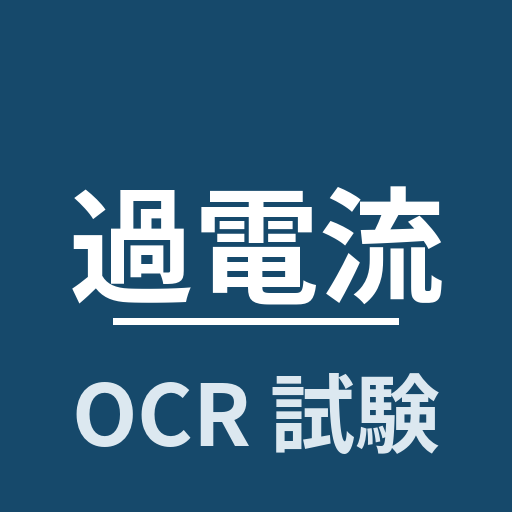
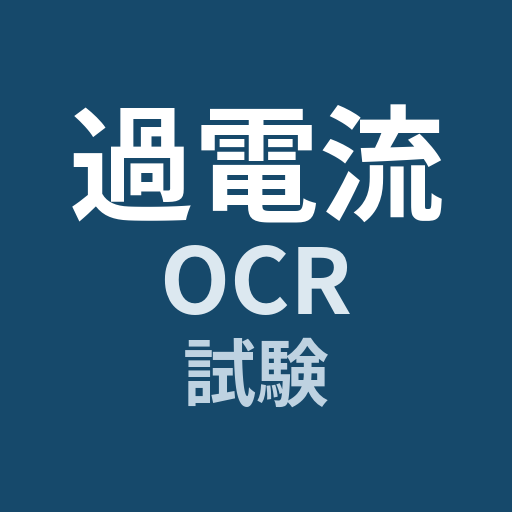
アイコンを3段(名前/略称/試験)にして中央へ
Claude-Session: https://claude.ai/code/session_01Gn88cHrahacSFTJfJTovtG

Changed region(s): [[0.125, 0.1875, 0.875, 0.9062]]

diff --git a/ocr.html b/ocr.html
@@ -6,8 +6,8 @@
 <title>過電流継電器試験成績表</title>
 <meta name="apple-mobile-web-app-title" content="過電流試験">
 <meta name="application-name" content="過電流試験">
-<link rel="apple-touch-icon" href="icons/ocr-180.png">
-<link rel="icon" type="image/png" sizes="512x512" href="icons/ocr-512.png">
+<link rel="apple-touch-icon" href="icons/ocr-180.png?v=2">
+<link rel="icon" type="image/png" sizes="512x512" href="icons/ocr-512.png?v=2">
 <link rel="preconnect" href="https://fonts.googleapis.com">
 <link rel="stylesheet" href="https://fonts.googleapis.com/css2?family=Noto+Sans+JP:wght@400;500;700&display=swap">
 <style>

diff --git a/uvr.html b/uvr.html
@@ -6,8 +6,8 @@
 <title>不足電圧継電器試験成績書</title>
 <meta name="apple-mobile-web-app-title" content="UVR試験">
 <meta name="application-name" content="UVR試験">
-<link rel="apple-touch-icon" href="icons/uvr-180.png">
-<link rel="icon" type="image/png" sizes="512x512" href="icons/uvr-512.png">
+<link rel="apple-touch-icon" href="icons/uvr-180.png?v=2">
+<link rel="icon" type="image/png" sizes="512x512" href="icons/uvr-512.png?v=2">
 <link rel="preconnect" href="https://fonts.googleapis.com">
 <link rel="stylesheet" href="https://fonts.googleapis.com/css2?family=Noto+Sans+JP:wght@400;500;700&display=swap">
 <style>

diff --git a/ovr.html b/ovr.html
@@ -6,8 +6,8 @@
 <title>過電圧継電器試験成績表</title>
 <meta name="apple-mobile-web-app-title" content="OVR試験">
 <meta name="application-name" content="OVR試験">
-<link rel="apple-touch-icon" href="icons/ovr-180.png">
-<link rel="icon" type="image/png" sizes="512x512" href="icons/ovr-512.png">
+<link rel="apple-touch-icon" href="icons/ovr-180.png?v=2">
+<link rel="icon" type="image/png" sizes="512x512" href="icons/ovr-512.png?v=2">
 <link rel="preconnect" href="https://fonts.googleapis.com">
 <link rel="stylesheet" href="https://fonts.googleapis.com/css2?family=Noto+Sans+JP:wght@400;500;700&display=swap">
 <style>
